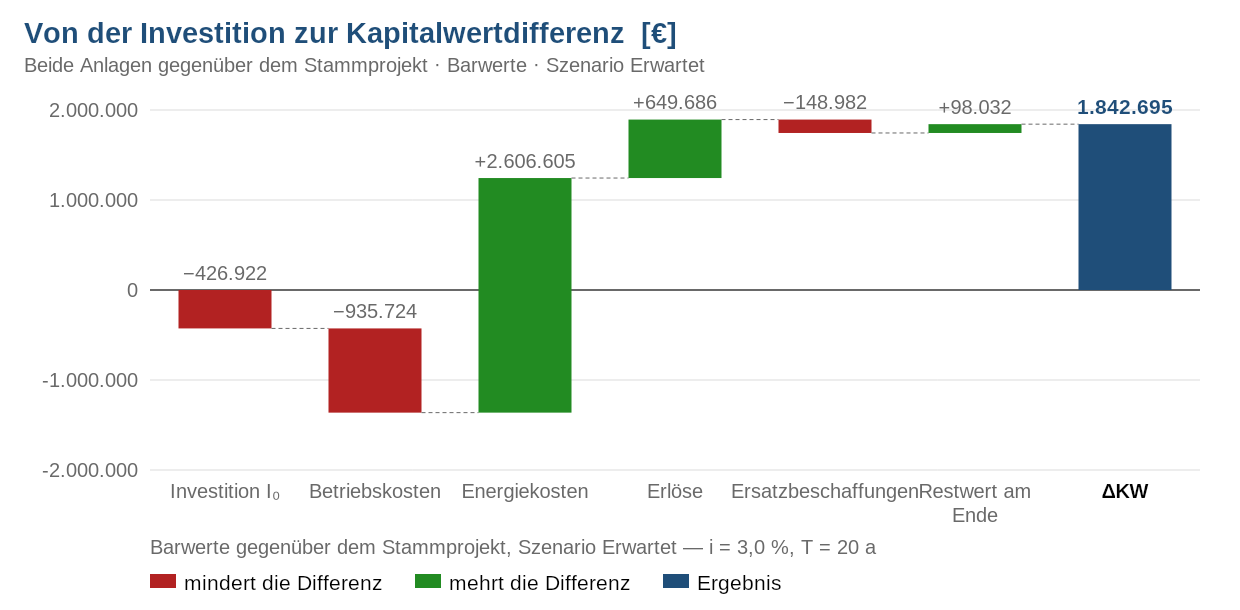
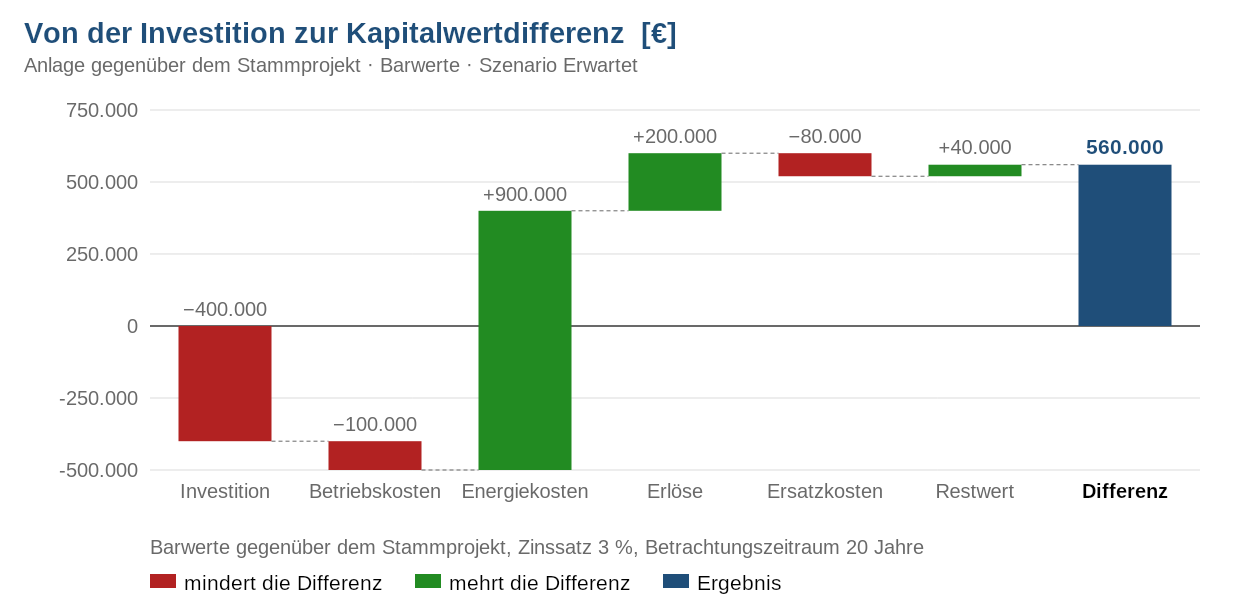
Wiki-Diagramme bereinigt: drei neu aus --wiki, drei entfernt
ChartProben --wiki schreibt Speicherverlauf (ohne Rollenzusatz, stimmiger
Wochengang), Brueckenbild (ohne Formelzeichen, kurze Bestandteile) und
Zapfprofil-Dauerlinie (ohne Perzentilmarken) und keine Jahresdauerlinie
Waerme mehr. Aus dem Wiki genommen: Waerme-Dauerlinie (Kurven kreuzen),
Kaelteproduktion (Achsentitel beruehrt Legende, Umlaut-Ersatz), COP-
Kennlinien (Legende und Achse ohne Einheit kommen aus dem Renderer).
Standardausgabe unveraendert (Hashvergleich leer).

Claude-Session: https://claude.ai/code/session_01GmWb8FKp9ZAxRprjxHLLAW

diff --git a/Proben/ChartProben/Program.Wiki.cs b/Proben/ChartProben/Program.Wiki.cs
@@ -77,13 +77,83 @@ namespace ChartProben
             return z;
         }
 
-        /// <summary>Schreibt Jahresverlauf, Jahresdauerlinie und Strombilanz aus dem stimmigen Satz.</summary>
+        /// <summary>
+        /// Schreibt Jahresverlauf und Strombilanz aus dem stimmigen Satz, dazu Speicherverlauf, Brückenbild und
+        /// Zapfprofil-Dauerlinie in Wiki-Fassung. Die Jahresdauerlinie Wärme gehört nicht dazu: Sie ordnet jede Reihe
+        /// für sich, ihre Kurven können sich kreuzen und lesen sich im Wiki wie ein Fehler.
+        /// </summary>
         private static void WikiZeitreihenbilder(string ordner)
         {
             ZeitreihenSatz z = WikiSatz();
             File.WriteAllBytes(Path.Combine(ordner, "Diagramm_Waerme_Jahresverlauf.png"), ChartRenderer.JahresverlaufWaerme(z));
-            File.WriteAllBytes(Path.Combine(ordner, "Diagramm_Waerme_Dauerlinie.png"), ChartRenderer.DauerlinieWaerme(z));
             File.WriteAllBytes(Path.Combine(ordner, "Diagramm_Strombilanz_Monate.png"), ChartRenderer.StrombilanzMonate(z));
+            File.WriteAllBytes(Path.Combine(ordner, "Diagramm_Speicherverlauf.png"), ChartRenderer.Speicherverlauf(WikiSpeicherSatz()));
+            File.WriteAllBytes(Path.Combine(ordner, "Diagramm_Kapitalwert_Bruecke.png"),
+                ChartRenderer.KapitalwertBruecke(WikiBrueckenschritte(), WikiBrueckentexte()));
+
+            // Die Zapfprofil-Dauerlinie ohne Perzentilmarken (ihre Kürzel P50 bis P99 stoßen bei steiler Linie
+            // aneinander), mit der Ladeleistung als Vergleichslinie.
+            double[] werktag = Tagesgang(7.0, 19.0, 1.2, 12.0);
+            double[] samstag = Tagesgang(9.0, 20.0, 2.0, 9.0);
+            double[] sonntag = Tagesgang(10.0, 19.0, 2.6, 8.0);
+            double[] zirk = Zirkulationstag(1.4, 5, 22);
+            (double[] linie, _, _, _) = Dauerlinienprobe(Woche(werktag, samstag, sonntag), Woche(zirk, zirk, zirk));
+            File.WriteAllBytes(Path.Combine(ordner, "Diagramm_Zapfprofil_Dauerlinie.png"),
+                ZapfprofilBilder.Dauerlinie(linie, null, null, null, 9.0, "Ladeleistung", new ZapfprofilBildtexte()));
         }
+
+        /// <summary>
+        /// Drei Speicher mit stimmigem Wochengang, ohne Rollenzusatz in der Beschriftung (der Stromspeicher läuft
+        /// deshalb als dritte Speicherreihe, nicht als Reihe <c>PV_SPEICHER_SOC</c>): Der Heizungspuffer pendelt im
+        /// Winter weit und liegt im Sommer fast still; der Brauchwasserspeicher entlädt sich morgens und abends und
+        /// wird dazwischen nachgeladen, im Sommer solar etwas höher; der Stromspeicher lädt mittags aus der
+        /// Photovoltaik und entlädt sich abends, im Sommer fast voll, im Winter nur wenig.
+        /// </summary>
+        private static ZeitreihenSatz WikiSpeicherSatz()
+        {
+            var puffer = new double[STUNDEN]; var tww = new double[STUNDEN]; var batterie = new double[STUNDEN];
+            for (int h = 0; h < STUNDEN; h++)
+            {
+                int stunde = h % 24;
+                double winter = (1.0 + Math.Cos(2.0 * Math.PI * (h / (double)STUNDEN - 0.04))) / 2.0;   // 1 im Januar, 0 im Juli
+                puffer[h] = 60.0 + 180.0 * winter + (15.0 + 110.0 * winter) * Math.Sin(2.0 * Math.PI * (stunde - 2) / 24.0);
+                tww[h] = 130.0 + 30.0 * (1.0 - winter) + 45.0 * Math.Cos(4.0 * Math.PI * (stunde - 3) / 24.0);
+                double laden = stunde >= 9 && stunde < 16 ? (stunde - 9) / 7.0
+                             : stunde >= 16 ? Math.Max(0.0, 1.0 - (stunde - 16) / 7.0) : 0.0;
+                batterie[h] = 10.0 + (15.0 + 70.0 * (1.0 - winter)) * laden;
+            }
+            var z = new ZeitreihenSatz();
+            WikiSpeicher(z, "PUFFER_11", "Heizungspuffer", puffer);
+            WikiSpeicher(z, "PUFFER_12", "Brauchwasserspeicher", tww);
+            WikiSpeicher(z, "STROMSPEICHER_1", "Stromspeicher", batterie);
+            return z;
+        }
+
+        private static void WikiSpeicher(ZeitreihenSatz z, string schluessel, string beschriftung, double[] werte)
+        {
+            z.Reihen[schluessel] = werte;
+            z.Beschriftungen[schluessel] = beschriftung;
+            z.Speicherreihen.Add(schluessel);
+        }
+
+        /// <summary>Kurze Bestandteile in runden Zahlen: mehr Investition und Betrieb, dafür weniger Energiekosten.</summary>
+        private static System.Collections.Generic.List<ChartRenderer.Brueckenschritt> WikiBrueckenschritte()
+            => new System.Collections.Generic.List<ChartRenderer.Brueckenschritt>
+            {
+                new ChartRenderer.Brueckenschritt { Name = "Investition", Wert = -400000.0 },
+                new ChartRenderer.Brueckenschritt { Name = "Betriebskosten", Wert = -100000.0 },
+                new ChartRenderer.Brueckenschritt { Name = "Energiekosten", Wert = 900000.0 },
+                new ChartRenderer.Brueckenschritt { Name = "Erlöse", Wert = 200000.0 },
+                new ChartRenderer.Brueckenschritt { Name = "Ersatzkosten", Wert = -80000.0 },
+                new ChartRenderer.Brueckenschritt { Name = "Restwert", Wert = 40000.0 }
+            };
+
+        /// <summary>Die Texte des Brückenbilds ohne Formelzeichen: Ergebnis, Zinssatz und Zeitraum ausgeschrieben.</summary>
+        private static ChartRenderer.BrueckenTexte WikiBrueckentexte() => new ChartRenderer.BrueckenTexte
+        {
+            Ergebnis = "Differenz",
+            Unterzeile = "Anlage gegenüber dem Stammprojekt · Barwerte · Szenario Erwartet",
+            Fuss = "Barwerte gegenüber dem Stammprojekt, Zinssatz 3 %, Betrachtungszeitraum 20 Jahre"
+        };
     }
 }

diff --git a/Proben/ChartProben/LIESMICH.md b/Proben/ChartProben/LIESMICH.md
@@ -30,7 +30,7 @@ dotnet run --project Proben/ChartProben -c Release
 | `--hashes <datei>` | schreibt die **Hash-Messlatte**: je Bild eine Zeile aus SHA-256, zwei Leerzeichen und `<name>.png`, nach Name geordnet, mit LF und ohne BOM — das Format von `sha256sum`, also mit `sha256sum -c` im Ablageordner nachrechenbar |
 | `--svg <datei>` | schreibt den Jahresgang der Klimadaten **einmal** als SVG-Text (UTF-8 ohne BOM, LF) und nennt Größe und Knotenzahl — zum Ansehen im Browser und als Nachweis der SVG-Gegenprobe |
 | `--svg-alle <ordner>` | schreibt **jedes** Modell mit SVG-Gegenprobe als eigene `.svg` in diesen Ordner (Dateiname = Bildname ohne `svg_` bzw. `svg_c_`) — für die Sichtprüfung gegen das Skia-Bild aus `--ablage`; daneben `<name>_druck.svg`, der SVG-Teil des Wortberichts (`SvgSchreiber.Drucktext`, Reihen als Pixelpfade ohne `vector-effect`). Kein Teil der Prüfung: Es entsteht kein PNG und keine Hashzeile |
-| `--wiki <ordner>` | schreibt nur die Wiki-Fassungen der Diagramme mit sprechenden Beschriftungen (`Diagramm_Bivalenz.png` — dieselbe Probe wie `bivalenzdiagramm` mit eigenen Marken — sowie `Diagramm_Waerme_Jahresverlauf.png`, `Diagramm_Waerme_Dauerlinie.png` und `Diagramm_Strombilanz_Monate.png` aus einem eigenen Satz, in dem eine Kaskade stündlich genau den Bedarf deckt) in diesen Ordner und endet; keine Probe, keine Hashzeile |
+| `--wiki <ordner>` | schreibt nur die Wiki-Fassungen der Diagramme mit sprechenden Beschriftungen (`Diagramm_Bivalenz.png` — dieselbe Probe wie `bivalenzdiagramm` mit eigenen Marken — sowie `Diagramm_Waerme_Jahresverlauf.png` und `Diagramm_Strombilanz_Monate.png` aus einem eigenen Satz, in dem eine Kaskade stündlich genau den Bedarf deckt, `Diagramm_Speicherverlauf.png` aus drei Speichern mit stimmigem Wochengang, `Diagramm_Kapitalwert_Bruecke.png` mit ausgeschriebenen Texten und `Diagramm_Zapfprofil_Dauerlinie.png` ohne Perzentilmarken; keine Jahresdauerlinie Wärme, deren je Reihe geordnete Kurven sich kreuzen) in diesen Ordner und endet; keine Probe, keine Hashzeile |
 
 Ohne `--ablage` und ohne `--hashes` verhält sich die Probe unverändert.
 
